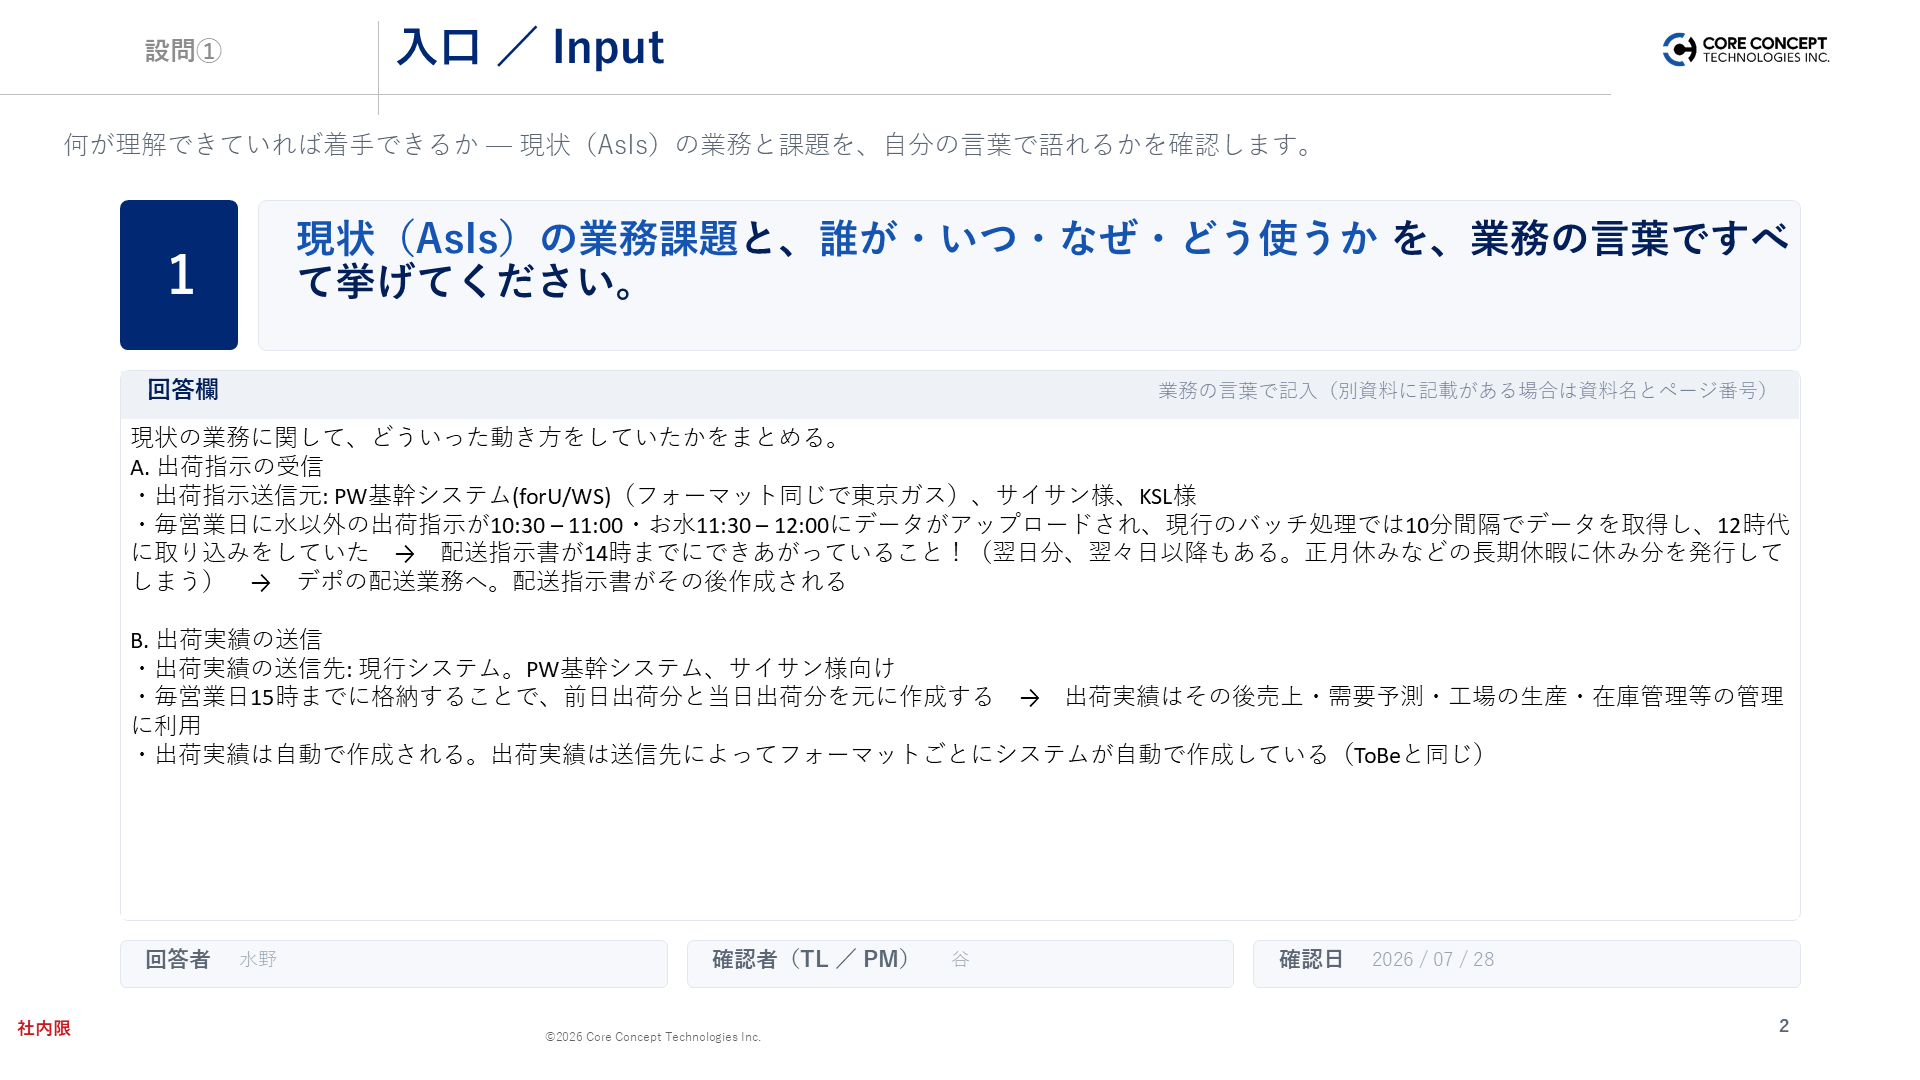
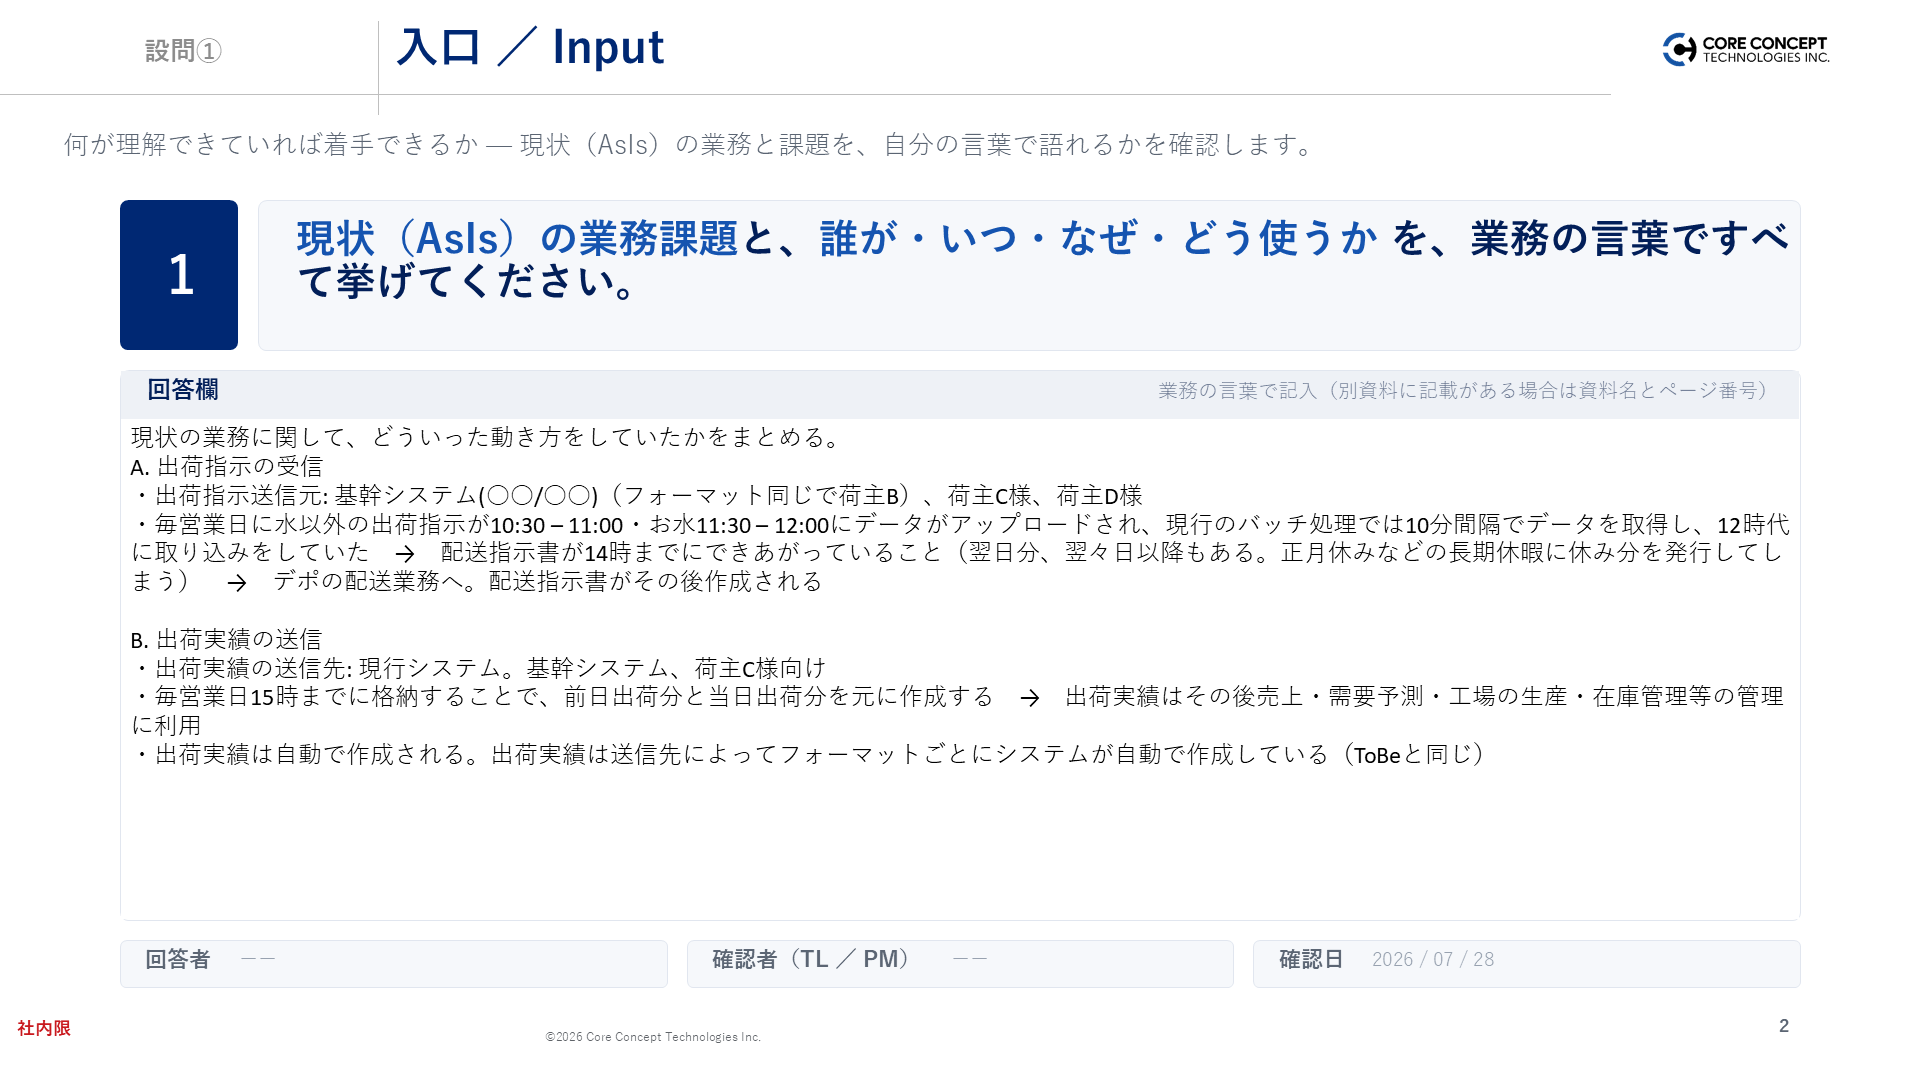
docs: 課題事例⑦に実施記録の所感を追加し個人名・顧客固有名を匿名化する

diff --git a/docs/chart/problem_ex_7.html b/docs/chart/problem_ex_7.html
@@ -246,6 +246,14 @@
   .callout--red { background: #fee2e2; border-color: #fecaca; }
   .callout--red::before { border-right-color: #fecaca; }
   .callout--red .co-tag { background: #dc2626; }
+
+  /* 実施タブ: エンジニアの所感（無機質なメモ矩形。三角ポインタ・強い配色なし） */
+  .soukan { margin-top: 2px; border: 1px solid #d1d5db; background: #fbfbfb; border-radius: 3px; padding: 5px 9px; }
+  .soukan .sk-head { font-size: 9.5px; font-weight: 700; color: #6b7280; margin-bottom: 3px; }
+  .soukan ul { margin: 0; padding: 0; list-style: none; }
+  .soukan li { position: relative; padding-left: 11px; font-size: 9.3px; line-height: 1.4; color: #4b5563; margin-bottom: 2px; }
+  .soukan li:last-child { margin-bottom: 0; }
+  .soukan li::before { content: '・'; position: absolute; left: 0; color: #9ca3af; }
 </style>
 </head>
 <body>
@@ -452,7 +460,7 @@
           <div class="rc-title">PM から入った指摘・補足</div>
           <div class="callout callout--gray">
             <span class="co-tag">認識の補足</span>
-            <div class="co-body">PW基幹は2系統「<b>forU／WS</b>」（同一形式・保管場所のみ別）。再散・東京ガスも同形式で届く。KSLも同じ置き場だが、<b>SFTP受信口へ置く経路が要件定義完了時と変化</b>している点が課題。</div>
+            <div class="co-body">主要荷主の基幹は<b>2系統</b>（同一形式・保管場所のみ別）。他の荷主も同形式で届く。一部の荷主も同じ置き場だが、<b>SFTP受信口へ置く経路が要件定義完了時と変化</b>している点が課題。</div>
           </div>
           <div class="callout callout--blue">
             <span class="co-tag">業務背景</span>
@@ -461,6 +469,15 @@
           <div class="callout callout--amber">
             <span class="co-tag">認識の訂正</span>
             <div class="co-body">作る指示書は「<b>翌日分</b>」（当日分は前日14時まで）。受信は<b>最大3日先</b>まで、長期休暇は<b>休み明けまでの分が一括</b>で届く。</div>
+          </div>
+          <div class="soukan">
+            <div class="sk-head">所感</div>
+            <ul>
+              <li>記入の際に業務の流れを構造化して考える必要があり、思考に抜けがあることに気づけた</li>
+              <li>PMからも入口についてが特に指摘いただけた</li>
+              <li>PM自身も把握できていないこともあったため、PMに対する気づきとして機能する場面も見られた（ex: 出荷実績の利用先）</li>
+              <li>書いた後で具体について気になるところが出てくるため、AIへのインプット前に情報整理として役立った（ex: 出荷指示→配送指示書は、どのような単位で作成される？）</li>
+            </ul>
           </div>
         </div>
       </div>
@@ -482,15 +499,22 @@
           <div class="rc-title">PM から入った指摘・補足</div>
           <div class="callout callout--blue">
             <span class="co-tag">責務の確認</span>
-            <div class="co-body">責務境界を確認。<b>A＝受信・取込まで</b>／<b>B＝実績を作成しS3へ配置まで</b>（KSL以外は配送指示書を出す）。</div>
+            <div class="co-body">責務境界を確認。<b>A＝受信・取込まで</b>／<b>B＝実績を作成しS3へ配置まで</b>（一部の荷主以外は配送指示書を出す）。</div>
           </div>
           <div class="callout callout--amber">
             <span class="co-tag">資料の訂正</span>
-            <div class="co-body">実績の送信先から<b>KSLを除外</b>。現行でKSLへ実績は送っていない（KSL以外はAと同じ送信先）。</div>
+            <div class="co-body">実績の送信先から<b>一部の荷主を除外</b>。現行でその荷主へ実績は送っていない（それ以外はAと同じ送信先）。</div>
           </div>
           <div class="callout callout--gray">
             <span class="co-tag">業務情報の補足</span>
-            <div class="co-body">KSLは配送指示書でなく「<b>送り状＋納品書</b>」を独自出力。実績の用途は<b>運賃計算・水源地別の集計</b>→在庫補充/需要予測。</div>
+            <div class="co-body">一部の荷主は配送指示書でなく「<b>送り状＋納品書</b>」を独自出力。実績の用途は<b>運賃計算・水源地別の集計</b>→在庫補充/需要予測。</div>
+          </div>
+          <div class="soukan">
+            <div class="sk-head">所感</div>
+            <ul>
+              <li>書いた後に出口側（完了条件）を確認し異常系について定義が必要と気づき戻るなど、思考の整理に役立った印象</li>
+              <li>思考を国語的に書いているため、疑問が表出しやすい（ex: 再配置を実行？とあるが、これはPMも意識できていなかった項目。PMの気づきにつながった）</li>
+            </ul>
           </div>
         </div>
       </div>
@@ -521,6 +545,13 @@
           <div class="callout callout--red">
             <span class="co-tag">重要</span>
             <div class="co-body"><b>重複取込の防止</b>。再送時はキー項目で既取込をスキップし、既取込95件＋修正5件が重複エラーにならないように。結論＝「<b>正しいものが入る</b>」。</div>
+          </div>
+          <div class="soukan">
+            <div class="sk-head">所感</div>
+            <ul>
+              <li>フォーマット化されているため、どういった内容を書けばいいのかを思考しやすかった</li>
+              <li>全項目を書くには多すぎるため、要点を意識して記述することに繋がった</li>
+            </ul>
           </div>
         </div>
       </div>
